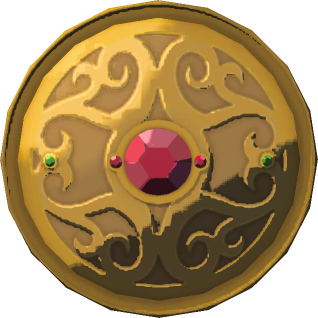
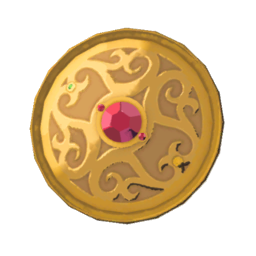
Add files via upload

diff --git a/weapons.html b/weapons.html
@@ -83,10 +83,12 @@
                     <p class="weapon_description">A legendary shield that provides unmatched protection against enemy attacks.</p>
                 </div>
                 <div class="weapon_card">
-                    <img src="images/gerudo_shield.png" class="gerudo_image" alt="Gerudo Shield">
-                    <h3>Gerudo Shield</h3>
-                    <p><strong>Durability</strong>: 120</p>
-                    <p class="weapon_description">A shield with high durability and a beautiful design from the Gerudo tribe.</p>
+                    <div class="weapon_card">
+                        <img src="images/ancient_shield.png" class="ancient_shield_image" alt="Ancient Shield">
+                        <h3>Ancient Shield</h3>
+                        <p><strong>Durability</strong>: 70</p>
+                        <p class="weapon_description">An advanced shield created using Sheikah technology. Not only does it offer solid protection, but it also has the ability to deflect Guardian beams automatically when held up.</p>
+                    </div>
                 </div>
             </div>
         </div>
